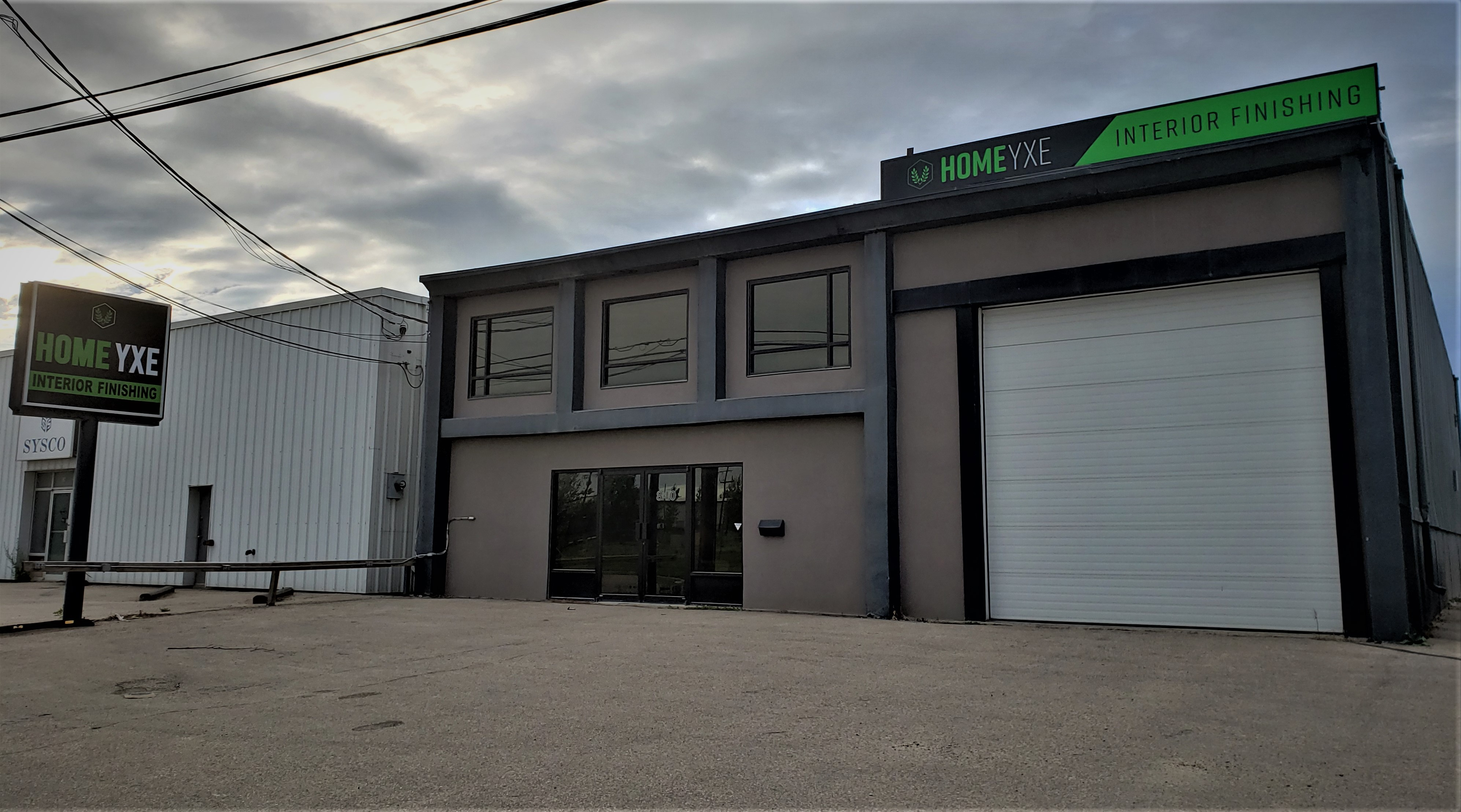
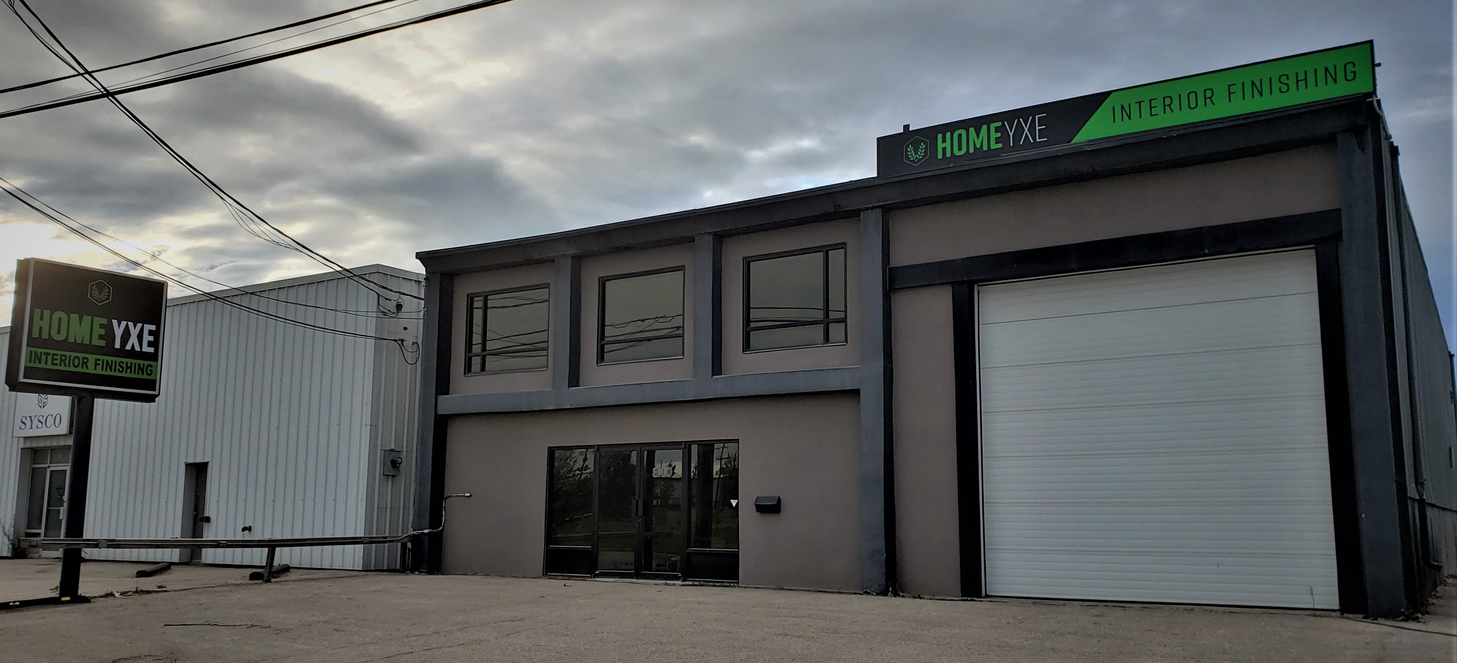
images updated and width fixed for responsiveness

diff --git a/index.html b/index.html
@@ -56,8 +56,12 @@
         <li data-target="#slides" data-slide-to="2"></li>
         <li data-target="#slides" data-slide-to="3"></li>
         <li data-target="#slides" data-slide-to="4"></li>
+        <li data-target="#slides" data-slide-to="5"></li>
+        <li data-target="#slides" data-slide-to="6"></li>
+        <li data-target="#slides" data-slide-to="7"></li>
+
       </ul>
-      <div class="carousel-inner text-center m-auto">
+      <div class="carousel-inner text-center m-auto mt-5">
         <div class="carousel-item active">
           <img src="/img/outside.jpg" alt="">
           <div class="carousel-caption">
@@ -72,7 +76,7 @@
           </div>
         </div>
         <div class="carousel-item">
-          <img src="/img/C5.jpg" alt="">
+          <img src="/img/Floor.jpg" alt="">
           <div class="carousel-caption">
             <h1 class="display-2">Flooring</h1>
             <h3>Commercial and Residential flooring</h3>
@@ -85,7 +89,7 @@
           </div>
         </div>
         <div class="carousel-item">
-          <img src="/img/Counter.jpg" alt="">
+          <img src="/img/Tiles.jpg" alt="">
           <div class="carousel-caption">
             <h1 class="display-2">Tiling</h1>
             <h3>Tiles for every style and space</h3>
@@ -98,9 +102,9 @@
           </div>
         </div>
         <div class="carousel-item">
-          <img src="/img/Quartz.png" alt="">
+          <img src="/img/Cabinet.jpg" alt="">
           <div class="carousel-caption">
-            <h1 class="display-2">Quartz</h1>
+            <h1 class="display-2">Cabinet</h1>
             <h3>Stylish bathroom hardware and accessories </h3>
             <a type="button" class="btn btn-outline-light btn-lg btn-dark" href="#Services">
               Our Services
@@ -111,9 +115,9 @@
           </div>
         </div>
         <div class="carousel-item">
-          <img src="/img/Rails.jpg" alt="">
+          <img src="/img/DoorMoulding.jpg" alt="">
           <div class="carousel-caption">
-            <h1 class="display-2">Rails & Posts</h1>
+            <h1 class="display-2">Doors & Mouldings</h1>
             <h3>Finishing touches to complete any renovation project </h3>
             <a type="button" class="btn btn-outline-light btn-lg btn-dark" href="#Services">
               Our Services
@@ -123,7 +127,55 @@
             </a>
           </div>
         </div>
+        <div class="carousel-item">
+          <img src="/img/QuartsGranite.jpg" alt="">
+          <div class="carousel-caption">
+            <h1 class="display-2">Quartz & Granite</h1>
+            <h3>Finishing touches to complete any renovation project </h3>
+            <a type="button" class="btn btn-outline-light btn-lg btn-dark" href="#Services">
+              Our Services
+            </a>
+            <a type="button" class="btn btn-primary btn-lg" href="#Location">
+              Contact us
+            </a>
+          </div>
+        </div>
+        <div class="carousel-item">
+          <img src="/img/DoorLock.jpg" alt="">
+          <div class="carousel-caption">
+            <h1 class="display-2">Door Locks</h1>
+            <h3>Finishing touches to complete any renovation project </h3>
+            <a type="button" class="btn btn-outline-light btn-lg btn-dark" href="#Services">
+              Our Services
+            </a>
+            <a type="button" class="btn btn-primary btn-lg" href="#Location">
+              Contact us
+            </a>
+          </div>
+        </div>
+        <div class="carousel-item">
+          <img src="/img/ShowerDoor.jpg" alt="">
+          <div class="carousel-caption">
+            <h1 class="display-2">Shower Doors</h1>
+            <h3>Three piece set for your bathroom</h3>
+            <a type="button" class="btn btn-outline-light btn-lg btn-dark" href="#Services">
+              Our Services
+            </a>
+            <a type="button" class="btn btn-primary btn-lg" href="#Location">
+              Contact us
+            </a>
+          </div>
+        </div>
       </div>
+      <a class="carousel-control-prev" href="#slides" role="button" data-slide="prev">
+        <i class="fas fa-step-backward"></i>
+        <span class="sr-only">Previous</span>
+      </a>
+      <a class="carousel-control-next" href="#slides" role="button" data-slide="next">
+        <i class="fas fa-step-forward"></i>
+        <!-- <span class="carousel-control-next-icon" aria-hidden="true"></span> -->
+        <span class="sr-only">Next</span>
+      </a>
     </div>
     <!-- Jumbotron -->
     <div class="container-fluid" id="Services">
@@ -157,8 +209,8 @@
           <p>A stunning selection of hardwood, laminate, vinyl, carpeting and everything in between — no matter the budget.</p>
         </div>
         <div class="col-xs-12 col-sm-6 col-md-4">
-          <i class="fas fa-bath wow animate__animated animate__bounce"></i>
-          <h3>Bath</h3>
+          <i class="fas fa-archive wow animate__animated animate__bounce"></i>
+          <h3>Cabinets</h3>
           <p>Beautiful freestanding bathtubs, sinks, backlit LED mirrors, custom showers, assortment of tiles and a diverse collection of bathroom accessories.</p>
         </div>
         <div class="col-xs-12 col-sm-6 col-md-4" id="About">
@@ -194,10 +246,10 @@
             <div class="container-fluid text-center">
               <div class="fixed-text">
                 <div>
-                  <h1 class="text-white mb-2">Need some work done?</h1>
+                  <h1 class="mb-2">Need some work done?</h1>
                 </div>
                 <div>
-                  <h3 class="text-white">We offer excilent customer support</h3>
+                  <h3 class="">We offer excilent customer support</h3>
                 </div>
                 <button class="btn btn-outline-light btn-primary btn-lg ">GET IN TOUCH</button>
               </div>

diff --git a/css/style.css b/css/style.css
@@ -64,6 +64,7 @@ html, body{
     text-shadow: 1px 1px 10px #000;
     padding-bottom: 1rem;
 }
+
 .btn-primary{
     background-color: #393e46;
     border: 1px solid #ceea31;
@@ -97,19 +98,17 @@ html, body{
     margin-top: .3rem ;
     margin-bottom: 1rem;
 }
-.fa-door-open{
+.fa-door-open, .fa-archive, .fa-step-backward, .fa-step-forward{
     color: #ceea31;
 }
-.fa-bath{
-    color: #ceea31;
-}
+
 .fa-th-large{
     color: #ceea31;
 }
 .fa-map-marked-alt{
     color: #ceea31;
 }
-.fa-door-open, .fa-bath, .fa-th-large, .fa-map-marked-alt{
+.fa-archive, .fa-door-open, .fa-bath, .fa-th-large, .fa-map-marked-alt, .fa-step-backward, .fa-step-forward{
     font-size: 4em;
     margin: 1rem;
 }
@@ -117,7 +116,7 @@ html, body{
     margin: 0%;
 }
 .fixed-wrap #fixed{
-    background-image: url('/img/door.jpg');
+    background-image: url('/img/Fixed.jpg');
     background-attachment: fixed;
     background-repeat: no-repeat;
     background-size: cover;
@@ -193,16 +192,28 @@ hr.light-100{
 }
 
 /* Media Queries */
-@media all{
+@media (all){
     .carousel-inner img{
         width: 100%;
-         
-    }    
+    }
 }
 @media (max-width: 1920px){
 .carousel-inner img{
-        width: 1200px;
-        height: 800px; 
+       width: 100%;
+    }
+    .carousel-caption{
+        top: 75%;
+        
+    }
+    .carousel-caption h1{
+        font-size: 200%;
+    }
+    
+    
+}
+@media (max-width: 1024px){
+    .carousel-caption{
+        top: 55%;
     }
 }
 @media (max-width: 992px){
@@ -214,6 +225,7 @@ hr.light-100{
     top: 65%;
     
 }
+
 
 .carousel-caption h1{
     font-size: 350%;
@@ -252,14 +264,18 @@ hr.light-100{
     }
 .carousel-inner img{
         width: auto;
-        height: 700px; 
+        height: 600px; 
     }
+    
 .carousel-caption{
     top: 65%;
     
 }
+.fa-step-backward, .fa-step-forward{
+        display: none;
+    }
 .carousel-caption h1{
-    font-size: 350%;
+    font-size: 250%;
     text-transform: uppercase;
     text-shadow: 1px 1px 15px #000;
 }
@@ -283,8 +299,11 @@ hr.light-100{
 }
 @media(max-width: 576px){
     .carousel-caption{
-        top: 50%;
+        top: 65%;
         
+    }
+    .fa-step-backward, .fa-step-forward{
+        display: none;
     }
     .contact-text{
         font-size: x-large;
@@ -297,11 +316,11 @@ hr.light-100{
         font-size: medium;
     }
     .carousel-inner img{
-        width: 100%;
         height: 400px;
+        width: auto;
     }
     .carousel-caption h1{
-        font-size: 250%;
+        font-size: 150%;
         text-transform: uppercase;
         text-shadow: 1px 1px 15px #000;
     }
